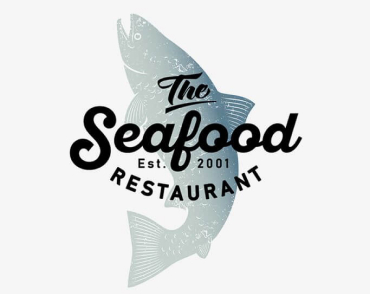
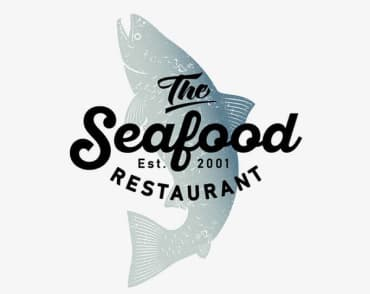
Imagenes renderizadas con Squoosh

diff --git a/index.html b/index.html
@@ -5,10 +5,10 @@
     <meta http-equiv="X-UA-Compatible" content="Chrome">
     <meta name="viewport" content="width=device-width, initial-scale=1.0">
     <title>GoIt Markup hw 02</title>
-    <link rel="stylesheet" href="css/styles.css"/>
-    <link rel="preconnect" href="https://fonts.googleapis.com">
-    <link rel="preconnect" href="https://fonts.gstatic.com" crossorigin>
-    <link href="https://fonts.googleapis.com/css2?family=Raleway:wght@700&family=Roboto:wght@400;500;700;900&display=swap" rel="stylesheet">
+    <link alt="stylesheet" href="css/styles.css"/>
+    <link alt="preconnect" href="https://fonts.googleapis.com">
+    <link alt="preconnect" href="https://fonts.gstatic.com" crossorigin>
+    <link href="https://fonts.googleapis.com/css2?family=Raleway:wght@700&family=Roboto:wght@400;500;700;900&display=swap" alt="stylesheet">
 </head>
 
 <!-- Primer pagina del curso-->
@@ -72,16 +72,16 @@
 
         <span class="images-container">
             <h2 >A qué nos dedicamos</h2>
-            <img src="/images/devps.png" 
-                rel="desarrollador"
+            <img src="/images/devps.jpg" 
+                alt="desarrollador"
                 width="373.16px"
                 height="323.7px"/>
                 
-            <img src="/images/ui.png" rel="diseño ui"
+            <img src="/images/ui.jpg" alt="diseño ui"
                 width="373.16px"
                 height="323.7px"/>
 
-            <img src="/images/design.png" rel="diseñador"
+            <img src="/images/design.jpg" alt="diseñador"
                 width="373.16px"
                 height="323.7px"/>
         </span>
